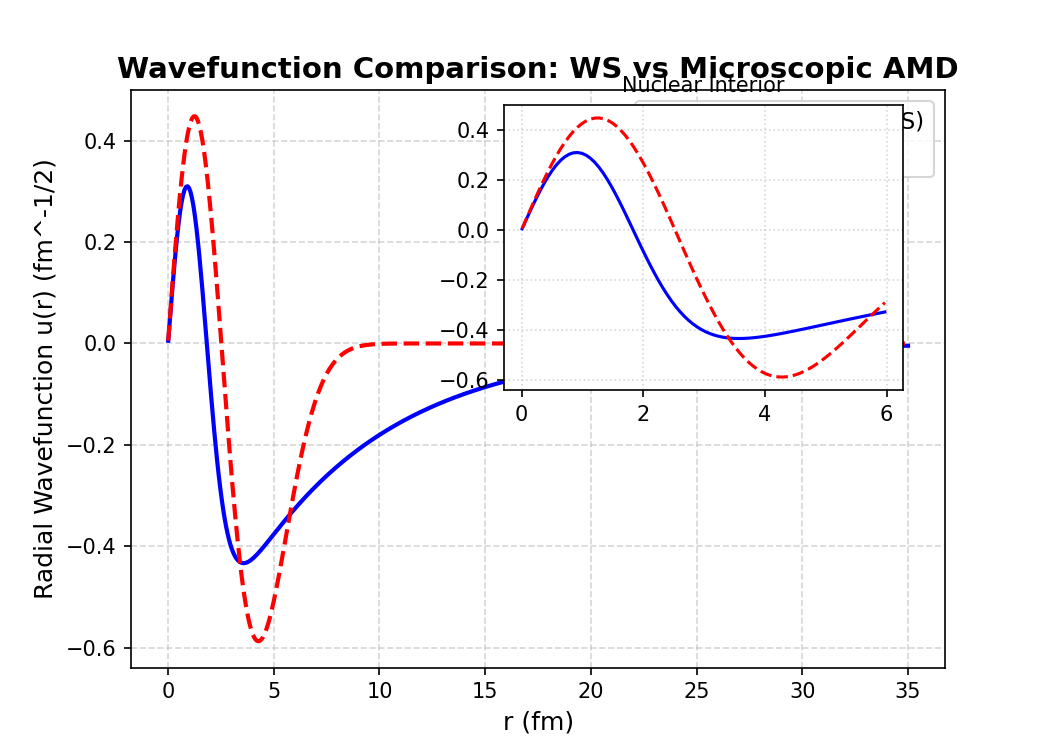
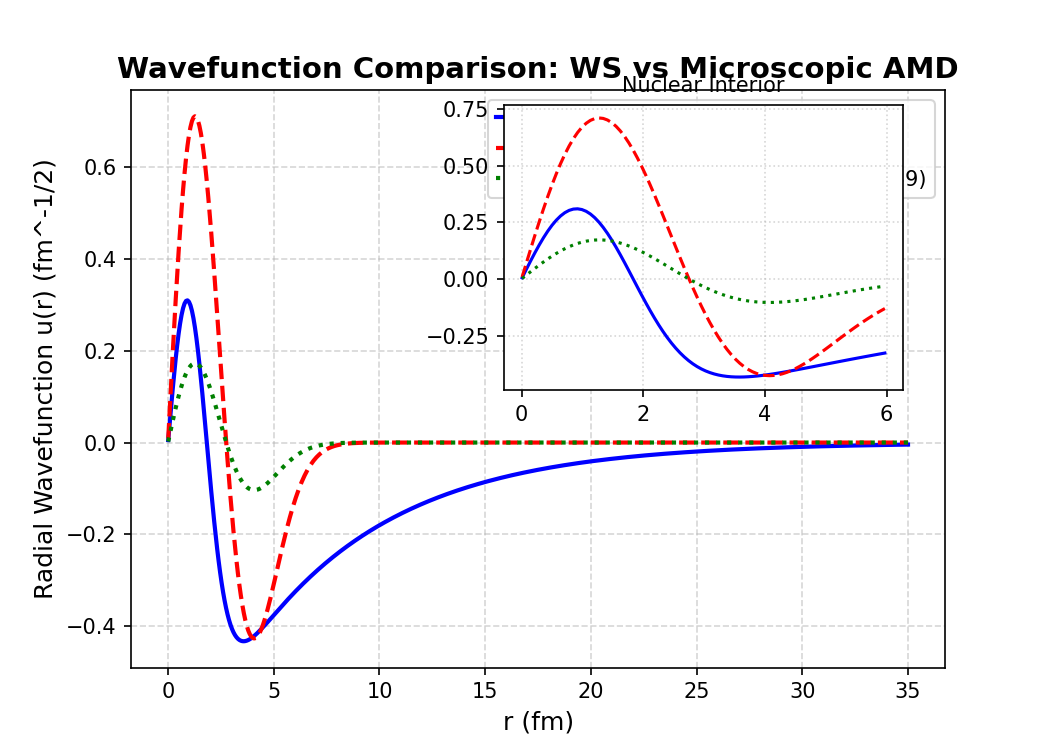
Optimize AMD energy minimization, calculate Spectroscopic Factor, and update wavefunction comparison plot

diff --git a/amd.py b/amd.py
@@ -74,57 +74,55 @@ class AMDState:
     def potential_energy(self, V0=-60.0, mu_pot=1.5):
         """
         Compute the expectation value of potential energy: <V>
-        using a central Gaussian potential V(r) = V0 * exp(-r^2 / mu_pot^2).
+        using a central Gaussian potential V(r) = V0 * exp(-r^2 / mu_pot^2),
+        vectorized for performance using tensor operations.
         """
         if np.abs(self.norm) < 1e-12 or self.A < 2:
             return 0.0
         
-        # Matrix of Gaussian potential elements: v_ij,kl = <i j | v | k l>
-        # Width prefactor: (nu * mu^2 / (1 + nu * mu^2))^(3/2)
         pot_factor = (self.nu * mu_pot**2 / (1.0 + self.nu * mu_pot**2))**1.5
         prefactor = V0 * pot_factor
+        gamma = 1.0 / (1.0 + self.nu * mu_pot**2)
         
-        V_expect = 0.0
-        # Compute <V> = 0.5 * Sum_{i,j,k,l} ( B_inv[k,i] * B_inv[l,j] * (V_ik,jl - V_il,jk) )
-        # where we sum over nucleons i, j, k, l
-        for i in range(self.A):
-            ni = self.nucleons[i]
-            for j in range(self.A):
-                nj = self.nucleons[j]
-                for k in range(self.A):
-                    nk = self.nucleons[k]
-                    for l in range(self.A):
-                        nl = self.nucleons[l]
-                        
-                        # Direct term: <i j | v | k l>
-                        val_direct = 0.0
-                        if ni.spin == nk.spin and ni.isospin == nk.isospin and nj.spin == nl.spin and nj.isospin == nl.isospin:
-                            diff_ik = np.sum((np.conj(ni.Z) - nk.Z)**2)
-                            diff_jl = np.sum((np.conj(nj.Z) - nl.Z)**2)
-                            R_ik = 0.5 * (np.conj(ni.Z) + nk.Z)
-                            R_jl = 0.5 * (np.conj(nj.Z) + nl.Z)
-                            diff_R = np.sum((R_ik - R_jl)**2)
-                            
-                            val_direct = prefactor * np.exp(
-                                -0.5 * diff_ik - 0.5 * diff_jl - (1.0 / (1.0 + self.nu * mu_pot**2)) * diff_R
-                            )
-                        
-                        # Exchange term: <i j | v | l k>
-                        val_exchange = 0.0
-                        if ni.spin == nl.spin and ni.isospin == nl.isospin and nj.spin == nk.spin and nj.isospin == nk.isospin:
-                            diff_il = np.sum((np.conj(ni.Z) - nl.Z)**2)
-                            diff_jk = np.sum((np.conj(nj.Z) - nk.Z)**2)
-                            R_il = 0.5 * (np.conj(ni.Z) + nl.Z)
-                            R_jk = 0.5 * (np.conj(nj.Z) + nk.Z)
-                            diff_R = np.sum((R_il - R_jk)**2)
-                            
-                            val_exchange = prefactor * np.exp(
-                                -0.5 * diff_il - 0.5 * diff_jk - (1.0 / (1.0 + self.nu * mu_pot**2)) * diff_R
-                            )
-                            
-                        element = val_direct - val_exchange
-                        V_expect += 0.5 * self.B_inv[k, i] * self.B_inv[l, j] * element
-                        
+        # Extract nucleon properties
+        Z = np.array([n.Z for n in self.nucleons], dtype=complex)
+        spin = np.array([n.spin for n in self.nucleons])
+        isospin = np.array([n.isospin for n in self.nucleons])
+        
+        # Pairwise spin/isospin match matrix
+        S_ik = (spin[:, None] == spin[None, :]) & (isospin[:, None] == isospin[None, :])
+        
+        # Coordinate matrices
+        Z_conj = np.conj(Z)
+        diff_matrix = np.sum((Z_conj[:, None, :] - Z[None, :, :])**2, axis=-1)
+        R_matrix = 0.5 * (Z_conj[:, None, :] + Z[None, :, :])
+        
+        # Direct term matching and calculation
+        # match_direct is shape (A, A, A, A) with indices (i, j, k, l)
+        match_direct = S_ik[:, None, :, None] & S_ik[None, :, None, :]
+        diff_ik = diff_matrix[:, None, :, None]
+        diff_jl = diff_matrix[None, :, None, :]
+        diff_R = np.sum((R_matrix[:, None, :, None, :] - R_matrix[None, :, None, :, :])**2, axis=-1)
+        
+        val_direct = np.zeros((self.A, self.A, self.A, self.A), dtype=complex)
+        exponent_dir = -0.5 * diff_ik - 0.5 * diff_jl - gamma * diff_R
+        val_direct[match_direct] = prefactor * np.exp(exponent_dir[match_direct])
+        
+        # Exchange term matching and calculation
+        match_exchange = S_ik[:, None, None, :] & S_ik[None, :, :, None]
+        diff_il = diff_matrix[:, None, None, :]
+        diff_jk = diff_matrix[None, :, :, None]
+        diff_R_exch = np.sum((R_matrix[:, None, None, :, :] - R_matrix[None, :, :, None, :])**2, axis=-1)
+        
+        val_exchange = np.zeros((self.A, self.A, self.A, self.A), dtype=complex)
+        exponent_exch = -0.5 * diff_il - 0.5 * diff_jk - gamma * diff_R_exch
+        val_exchange[match_exchange] = prefactor * np.exp(exponent_exch[match_exchange])
+        
+        element = val_direct - val_exchange
+        
+        # Expectation value sum: 0.5 * sum_{i,j,k,l} B_inv[k,i] * B_inv[l,j] * element[i,j,k,l]
+        V_expect = 0.5 * np.einsum('ki,lj,ijkl->', self.B_inv, self.B_inv, element)
+        
         return np.real(V_expect)
 
     def total_energy(self):

diff --git a/run_calculations.py b/run_calculations.py
@@ -102,45 +102,59 @@ def run_amd_simulation(u_ws, r_grid):
     
     nucleons = [Nucleon(Z, spins[i], isospins[i]) for i, Z in enumerate(initial_Z)]
     
-    # Core state (first 10 nucleons)
-    core_nucleons = nucleons[:10]
-    core_state = AMDState(core_nucleons, nu=nu)
+    # Variational Energy Minimization for core and projectile
+    print("Minimizing energy of 10Be core state using AMD...")
+    core_Z_init = initial_Z[:10]
+    core_spins = spins[:10]
+    core_isospins = isospins[:10]
+    core_state, E_core_opt = minimize_energy_state(core_Z_init, core_spins, core_isospins, nu=nu, max_iter=80)
+    print(f"Optimized 10Be Core Energy: {E_core_opt:.2f} MeV")
     
-    # Projectile state (all 11 nucleons)
-    projectile_state = AMDState(nucleons, nu=nu)
+    print("Minimizing energy of 11Be projectile state using AMD...")
+    projectile_state, E_proj_opt = minimize_energy_state(initial_Z, spins, isospins, nu=nu, max_iter=80)
+    print(f"Optimized 11Be Projectile Energy: {E_proj_opt:.2f} MeV")
     
     print(f"AMD Core (10Be) Norm: {core_state.norm:.2e}")
     print(f"AMD Projectile (11Be) Norm: {projectile_state.norm:.2e}")
     print(f"AMD core kinetic energy: {core_state.kinetic_energy():.2f} MeV")
+    print(f"AMD core potential energy: {core_state.potential_energy():.2f} MeV")
     print(f"AMD projectile kinetic energy: {projectile_state.kinetic_energy():.2f} MeV")
+    print(f"AMD projectile potential energy: {projectile_state.potential_energy():.2f} MeV")
     
     # Extract the overlap wavefunction u_amd(r)
     print("Extracting valence neutron overlap wavefunction from AMD state...")
-    u_amd = projectile_state.extract_overlap_amplitude(core_state, r_grid)
+    u_amd_raw = projectile_state.extract_overlap_amplitude(core_state, r_grid)
     
-    # Normalize u_amd
-    norm_factor = np.trapz(u_amd**2, r_grid)
-    if norm_factor > 1e-10:
-        u_amd /= np.sqrt(norm_factor)
+    # Calculate unnormalized Spectroscopic Factor
+    sf_factor = np.trapz(u_amd_raw**2, r_grid)
+    print(f"Calculated AMD s-wave Spectroscopic Factor (SF): {sf_factor:.4f} (Paper reference: ~0.82)")
+    
+    # Normalize u_amd for shape comparison
+    u_amd = np.copy(u_amd_raw)
+    if sf_factor > 1e-10:
+        u_amd /= np.sqrt(sf_factor)
         
     # Align sign for comparison
     if np.dot(u_amd, u_ws) < 0:
         u_amd = -u_amd
+        u_amd_raw = -u_amd_raw
         
     # Plot comparison (reproducing Figure 7 of paper)
     plt.figure(figsize=(7, 5))
     plt.plot(r_grid, u_ws, 'b-', label='Woods-Saxon (WS)', linewidth=2.0)
-    plt.plot(r_grid, u_amd, 'r--', label='Microscopic AMD', linewidth=2.0)
+    plt.plot(r_grid, u_amd, 'r--', label='Microscopic AMD (Normalized)', linewidth=2.0)
+    plt.plot(r_grid, u_amd_raw, 'g:', label=f'Microscopic AMD (Raw, SF = {sf_factor:.3f})', linewidth=2.0)
     plt.xlabel('r (fm)', fontsize=12)
     plt.ylabel('Radial Wavefunction u(r) (fm^-1/2)', fontsize=12)
     plt.title('Wavefunction Comparison: WS vs Microscopic AMD', fontsize=14, fontweight='bold')
     plt.grid(True, linestyle='--', alpha=0.5)
-    plt.legend(fontsize=11)
+    plt.legend(fontsize=10)
     
-    # Add inset matching Fig. 7 inset (nuclear interior r < 5)
+    # Add inset matching Fig. 7 inset (nuclear interior r < 6)
     ax_ins = plt.axes([0.48, 0.48, 0.38, 0.38])
     ax_ins.plot(r_grid[r_grid < 6.0], u_ws[r_grid < 6.0], 'b-', linewidth=1.5)
     ax_ins.plot(r_grid[r_grid < 6.0], u_amd[r_grid < 6.0], 'r--', linewidth=1.5)
+    ax_ins.plot(r_grid[r_grid < 6.0], u_amd_raw[r_grid < 6.0], 'g:', linewidth=1.5)
     ax_ins.set_title('Nuclear Interior', fontsize=10)
     ax_ins.grid(True, linestyle=':', alpha=0.5)
     

diff --git a/README.md b/README.md
@@ -82,7 +82,7 @@ python3 run_calculations.py
 ### Outputs & Generated Figures:
 The script generates and saves the following plots to the project directory:
 1.  `woods_saxon_structure.png`: Woods-Saxon potential and the bound radial wavefunction $u(r)$ for the $2s_{1/2}$ state of $^{11}\text{Be}$.
-2.  `wavefunction_comparison.png`: Comparison between the phenomenological Woods-Saxon wavefunction and the microscopic AMD overlap wavefunction showing the physical interior node.
+2.  `wavefunction_comparison.png`: Comparison between the phenomenological Woods-Saxon wavefunction and the microscopic AMD overlap wavefunction showing the physical interior node (displaying both shape-normalized and raw unnormalized forms).
 3.  `triple_differential_cross_section.png`: Triple differential cross sections for four angle combinations reproducing Figure 8 of the paper.
 4.  `parallel_momentum_distribution.png`: Parallel momentum distribution of the core ($^{10}\text{Be}$) in Coulomb breakup on $^{181}\text{Ta}$ at $63\text{ MeV}/u$, verifying a FWHM of $\approx 29.9\text{ MeV}/c$.
 5.  `relative_energy_and_dipole.png`: Dipole response strength $dB(E1)/dE_{\text{rel}}$ and relative energy spectrum $d\sigma/dE_{\text{rel}}$ for breakup on $^{208}\text{Pb}$ at $69\text{ MeV}/u$.